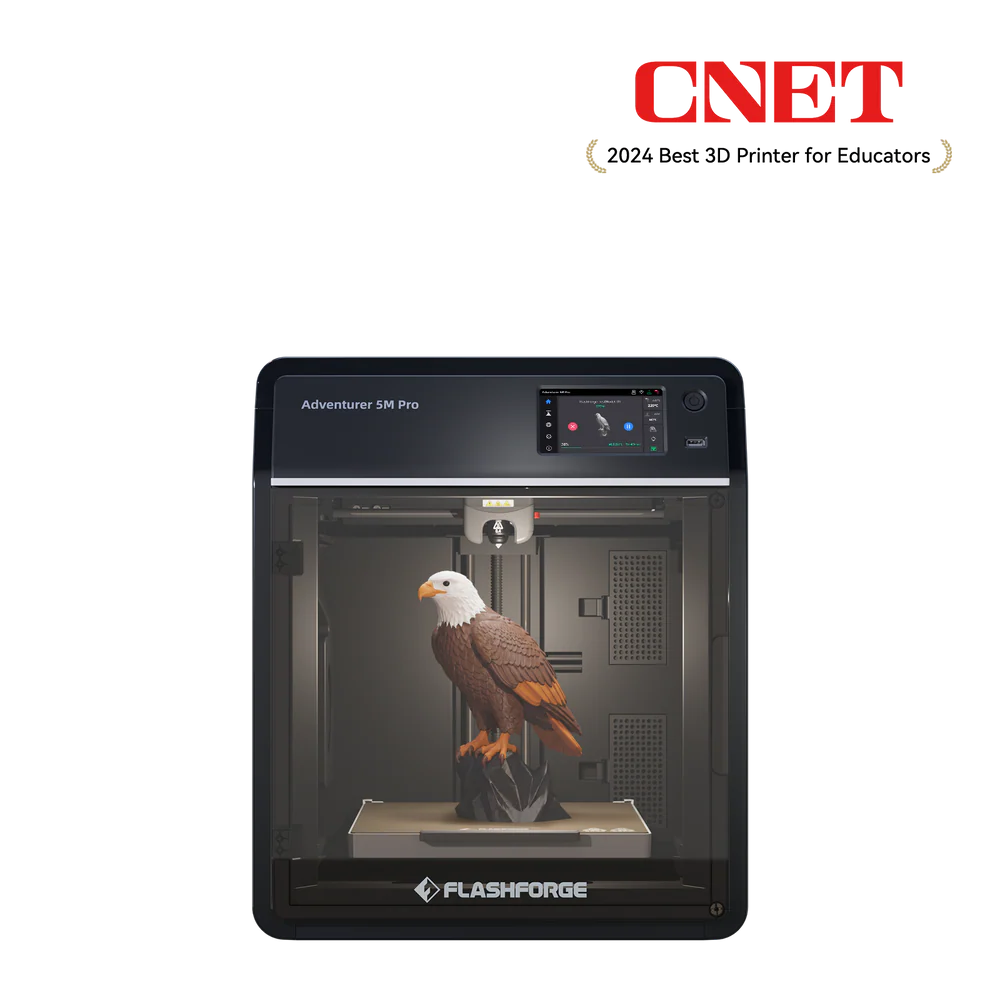
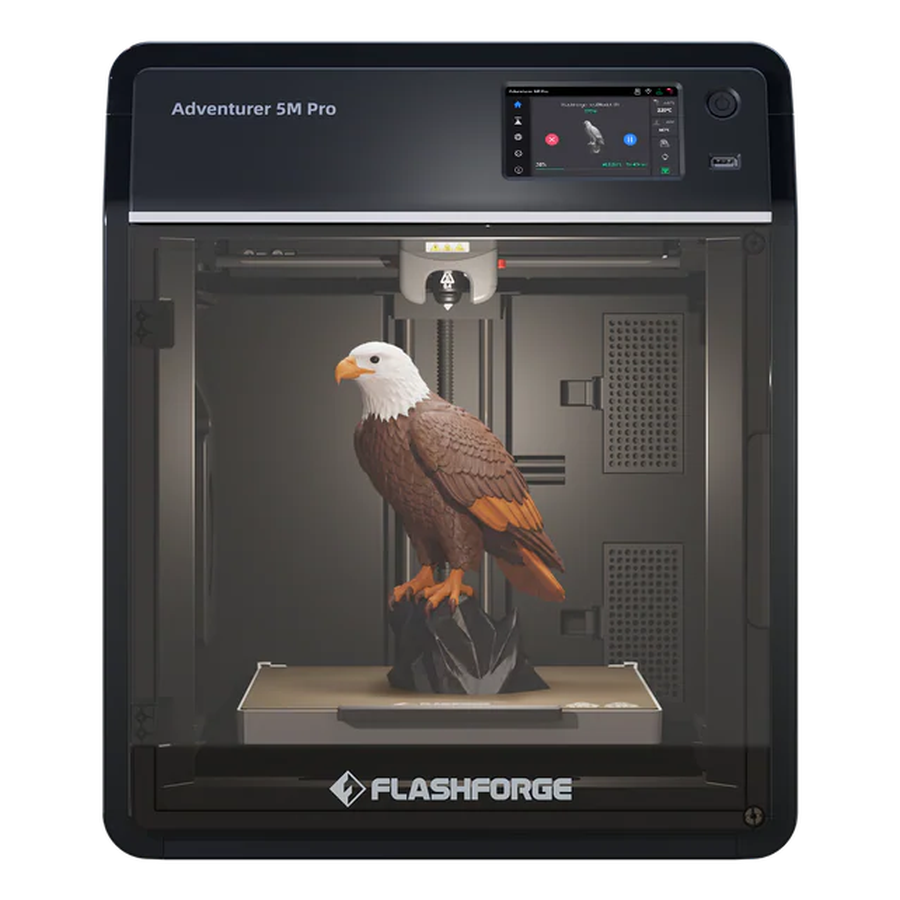
Recrop Flashforge photos, replace FLIR and Electric Race Car photos
- Cropped both Flashforge printer images to a centered square,
  removing the All3DP/CNET award badges (found via connected-
  component analysis to isolate the printer from the badge)
- Replaced FLIR E8-Pro photo (was a person using it in the field)
  with a clean product-only shot the user supplied
- Replaced Electric Race Car photo (had a person) with a plain
  product-on-rocks shot from TeacherGeek's own site, matching the
  rest of the catalog's style

diff --git a/src/content/products/electric-race-car.md b/src/content/products/electric-race-car.md
@@ -1,7 +1,7 @@
 ---
 title: "Electric Race Car"
 summary: "Bring the excitement and intrigue of electric cars into your classroom. This activity provides plenty of materials and instructions to design, construct, and evolve a unique battery-powered car."
-image: "https://images.squarespace-cdn.com/content/v1/594563da8419c26c3040c5e2/1524448772713-Z9YEM7M2Q618223AID9O/Electric-Racer_Solar-Panel_Cropped_grande.jpg?format=original"
+image: "/images/products/electric-race-car.jpg"
 imageAlt: "TeacherGeek Electric Race Car kit"
 category: "TeacherGeek"
 section: "Education & Art"

diff --git a/src/content/products/flir-e8-pro.md b/src/content/products/flir-e8-pro.md
@@ -2,7 +2,7 @@
 title: "FLIR E8-Pro"
 summary: "Pro-grade thermal camera for iOS and Android smartphones — built for inspection work in hazardous and industrial environments."
 image: "/images/products/flir-e8-pro.png"
-imageAlt: "FLIR E8-Pro thermal camera being used for inspection"
+imageAlt: "FLIR E8-Pro thermal camera"
 category: "FLIR"
 partNumber: "E8-Pro"
 section: "Industrial & Field-Ready"
